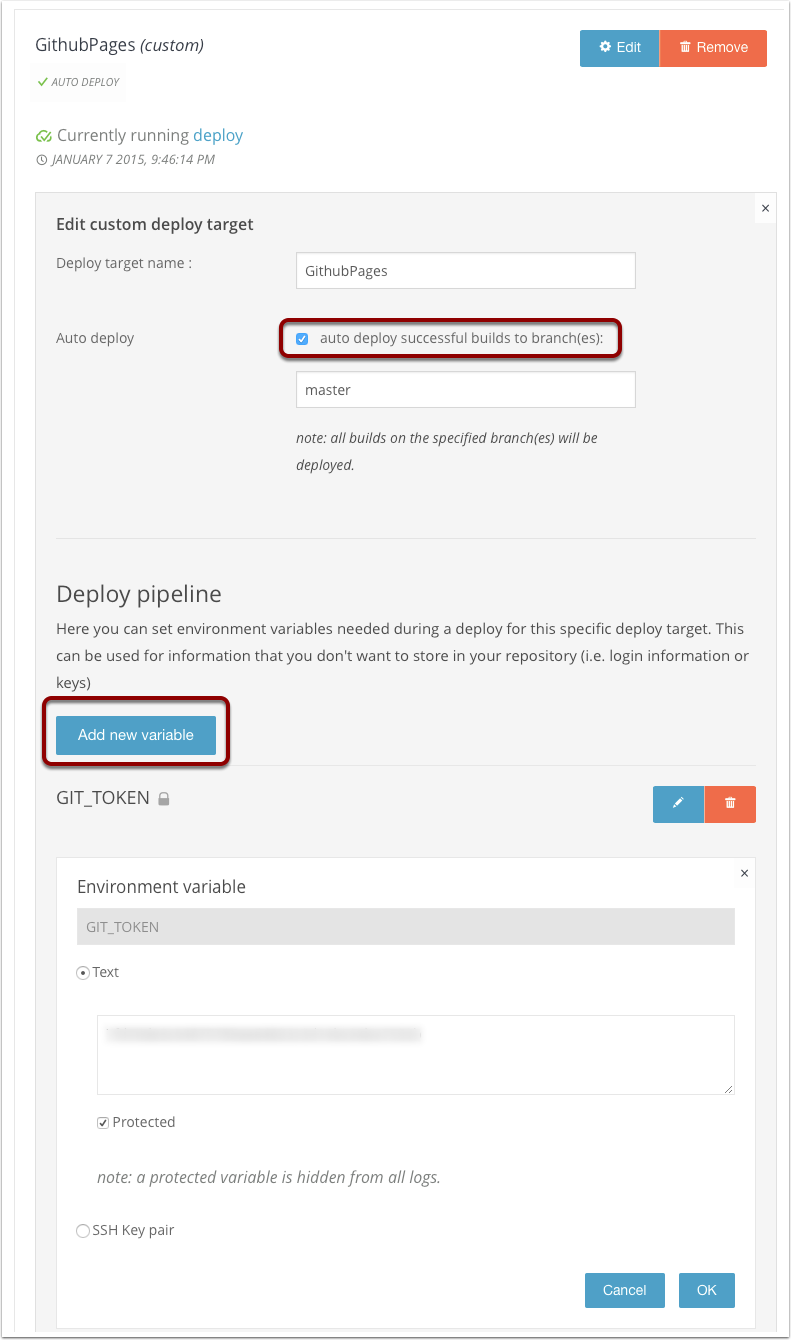
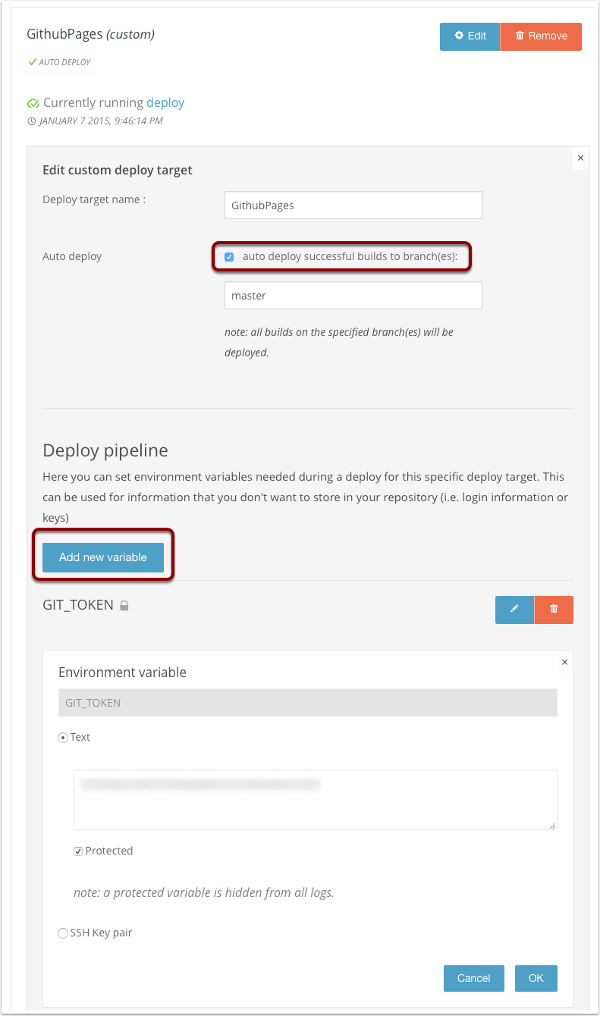
The guide is updated to fit the current Wercker interface and configurations. Wercker changed its interface and default infrastructure (Docker).

Changed region(s): [[0.75, 0.9459, 0.81, 0.9764], [0.9, 0.0305, 0.93, 0.061], [0.12, 0.0305, 0.15, 0.061]]

diff --git a/docs/content/tutorials/automated-deployments.md b/docs/content/tutorials/automated-deployments.md
@@ -1,5 +1,7 @@
 ---
-author: "Arjen Schwarz"
+authors:
+- Arjen Schwarz
+- Samuel Debruyn
 date: 2015-01-12
 linktitle: Automated deployments
 toc: true
@@ -14,7 +16,7 @@ weight: 10
 
 # Automated deployments with Wercker
 
-In this tutorial we will set up a basic Hugo project and then configure a free tool called Wercker to automatically deploy the generated site any time we add an article. We will deploy it to GitHub pages as that is easiest to set up, but you will see that we can use anything. This tutorial takes you through every step of the process, complete with screenshots, and is fairly long.
+In this tutorial we will set up a basic Hugo project and then configure a free tool called Wercker to automatically deploy the generated site any time we add an article. We will deploy it to GitHub pages as that is easiest to set up, but you will see that we can use anything. This tutorial takes you through every step of the process, complete with screenshots and is fairly long.
 
 The  assumptions made for this tutorial are that you know how to use git for version control, and have a GitHub account. In case you are unfamiliar with these, in their [help section](https://help.github.com/articles/set-up-git/) GitHub has an explanation of how to install and use git and you can easily sign up for a free GitHub account as well.
 
@@ -49,13 +51,19 @@ Let's add a quick **about** page.
 hugo new about.md
 ```
 
-Now we'll edit contents/about.md to ensure it's no longer a draft and add some text to it. Once completed it's a good idea to do a quick check if everything is working by running
+Now we'll edit contents/about.md to ensure it's no longer a draft and add some text to it.
+
+```bash
+hugo undraft content/about.md
+```
+
+Once completed it's a good idea to do a quick check if everything is working by running
 
 ```bash
 hugo server --theme=herring-cove
 ```
 
-If everything is fine, you should be able to see something similar to the image below when you go to localhost:1313 in your browser.
+If everything is fine, you should be able to see something similar to the image below when you go to localhost:1414 in your browser.
 
 ![][1]
 
@@ -84,18 +92,17 @@ echo "User-agent: *\nDisallow:" > static/robots.txt
 After this we can add everything to the repository.
 
 ```bash
-git add .
-git commit -m "Initial commit"
+git commit -a -m "Initial commit"
 ```
 
 ## Adding the project to GitHub
 
-First we'll create a new repository. You can do this by clicking on the **+** sign at the top right, or by going to [https://github.com/new](https://github.com/new) 
+First we'll create a new repository. You can do this by clicking on the **+** sign at the top right, or by going to https://github.com/new
 
 We then choose a name for the project (**hugo-wercker-example**). When clicking on create repository GitHub displays the commands for adding an existing project to the site. The commands shown below are the ones used for this site, if you're following along you will need to use the ones shown by GitHub. Once we've run those commands the project is in GitHub and we can move on to setting up the Wercker configuration.
 
 ```bash
-git remote add origin git@github.com:ArjenSchwarz/hugo-wercker-example.git
+git remote add origin git@github.com:YourUsername/hugo-wercker-example.git
 git push -u origin master
 ```
 
@@ -105,11 +112,11 @@ git push -u origin master
 
 ## Welcome to wercker
 
-Let's start by setting up an account for Wercker. To do so we'll go to http://wercker.com and click on the **register** link at the top-right corner.
+Let's start by setting up an account for Wercker. To do so we'll go to http://wercker.com and click on the **Sign up** button.
 
 ![][3]
 
-[3]: /img/tutorials/welcome-to-wercker.png
+[3]: /img/tutorials/wercker-sign-up.png
 
 ## Register
 
@@ -117,23 +124,23 @@ To make life easier for ourselves, we will then register using GitHub. If you do
 
 ![][4]
 
-[4]: /img/tutorials/register.png
+[4]: /img/tutorials/wercker-sign-up-page.png
 
 ## Connect GitHub/Bitbucket
 
-After you are registered, you will need to link your GitHub and/or Bitbucket account to Wercker. You do this by going to your profile settings, and then "Git connections" If you registered using GitHub it will most likely look like the below. To connect a missing service, simply click on the connect button which will then send you to either GitHub or Bitbucket where you might need to log in and approve their access to your account.
+After you are registered, you will need to link your GitHub and/or Bitbucket account to Wercker. You do this by going to your profile settings, and then "Git connections" If you registered using GitHub it will most likely look like the image below. To connect a missing service, simply click on the connect button which will then send you to either GitHub or Bitbucket where you might need to log in and approve their access to your account.
 
 ![][5]
 
-[5]: /img/tutorials/connect-github-bitbucket.png
+[5]: /img/tutorials/wercker-git-connections.png
 
 ## Add your project
 
-Now that we've got all the preliminaries out of the way, it's time to set up our application. For this we click on the **+ Add** button next to Apps, and then we'll choose to use GitHub as our provider.
+Now that we've got all the preliminaries out of the way, it's time to set up our application. For this we click on the **+ Create** button next to Applications, and then we'll choose to use GitHub as our provider.
 
 ![][6]
 
-[6]: /img/tutorials/add-your-project.png
+[6]: /img/tutorials/wercker-add-app.png
 
 ## Select a repository
 
@@ -141,58 +148,66 @@ Clicking this will make Wercker show you all the repositories you have on GitHub
 
 ![][7]
 
-[7]: /img/tutorials/select-a-repository.png
+[7]: /img/tutorials/wercker-select-repository.png
+
+## Select the repository owner
+
+In the next step, Wercker asks you to select the repository owner. Just select your own GitHub account and continue.
+
+![][8]
+
+[8]: /img/tutorials/wercker-select-owner.png
 
 ## Configure access
 
 This step can be slightly tricky. As Wercker doesn't access to check out your private projects by default it will ask you what you want to do. When your project is public, as needs to be the case if you wish to use GitHub Pages, the top choice is recommended. When you use this it will simply check out the code in the same way anybody visiting the project on GitHub can do.
 
-![][8]
+![][9]
 
-[8]: /img/tutorials/configure-access.png
+[9]: /img/tutorials/wercker-access.png
 
 ## Wercker.yml
 
-Wercker will now attempt to create an initial wercker.yml file for you. Or rather, it will create the code you can copy into it yourself. Because there is nothing special about our project according to Wercker, we will simply get the `wercker/default` box. So what we do now is create a wercker.yml file in the root of our project that contains the provided configuration, and after we finish setting up the app we will expand this file to make it actually do something.
-
-![][9]
-
-[9]: /img/tutorials/werckeryml.png
-
-## Public or not
-
-This is a personal choice, you can make an app public so that everyone can see more details about it. This doesn't give you any real benefits either way in general, although as part of the tutorial I have of course made this app public so you can see it in action [yourself](https://app.wercker.com/#applications/54b1e45eda3a4af76406ece6).
+Wercker will now attempt to create an initial *wercker.yml* file for you. Or rather, it will create the code you can copy into it yourself. Because there is nothing special about our project according to Wercker, we will simply get the `debian` box. So what we do now is create a *wercker.yml* file in the root of our project that contains the provided configuration, and after we finish setting up the app we will expand this file to make it actually do something.
 
 ![][10]
 
-[10]: /img/tutorials/public-or-not.png
+[10]: /img/tutorials/werckeryml.png
+
+## Public or not
+
+This is a personal choice, you can make an app public so that everyone can see more details about it. This doesn't give you any real benefits either way in general, although as part of the tutorial I have of course made this app public so you can see it in action [yourself](https://app.wercker.com/#applications/5586dcbdaf7de9c51b02b0d5).
+
+![][11]
+
+[11]: /img/tutorials/public-or-not.png
 
 ## And we've got an app
 
 The application is added now, and Wercker will be offering you the chance to trigger a build. As we haven't pushed up the **wercker.yml** file however, we will politely decline this option.
 
-![][11]
+![][12]
 
-[11]: /img/tutorials/and-we-ve-got-an-app.png
+[12]: /img/tutorials/and-we-ve-got-an-app.png
 
 ## Adding steps
 
-And now we're going to add the steps themselves. First, we go to the "Steps" action in the sidebar and then search for hugo. The first result is the **Hugo-Build** task, which we select. 
+And now we're going to add the steps themselves. First, we go to the "Registry" action in the top menu and then search for "hugo build". The first result is the **Hugo-Build** task, which we select. 
 
-![][12]
+![][13]
 
-[12]: /img/tutorials/adding-steps.png
+[13]: /img/tutorials/wercker-search.png
 
 ## Using Hugo-Build
 
 Inside the details of this step you will see how to use it. At the top is a summary for the very basic usage, but when scrolling down you go through the README of the step which will usually contain more details about how to use it including a full example of using the step. So we return to our project, and while making it fit our project better we add these details to our wercker.yml file so it looks like this. Wercker also has a [page](http://devcenter.wercker.com/articles/werckeryml/validate.html) for validating wercker.yml files, and it's usually a good idea to do so before committing changes.
 
 ```yaml
-box: wercker/default
+box: debian
 build:
   steps:
     - arjen/hugo-build:
-        version: 0.12
+        version: 0.14
         theme: herring-cove
         flags: --buildDrafts=true
 ```
@@ -200,27 +215,26 @@ build:
 This concludes the first step, so we'll test that it all works as it should by pushing up our wercker.yml file and seeing the magic at work.
 
 ```bash
-git add wercker.yml
-git commit -m "Add wercker.yml"
+git commit -a -m "Add wercker.yml"
 git push origin master
 ```
 
 Once completed a nice tick should have appeared in front of your first build, and if you want you can look at the details by clicking on it. However, we're not done yet as we still need to deploy it to GitHub Pages.
 
-![][13]
+![][14]
 
-[13]: /img/tutorials/using-hugo-build.png
+[14]: /img/tutorials/using-hugo-build.png
 
 ## Adding a GitHub Pages step
 
 In order to deploy to GitHub Pages we need to add a deploy step. Once again searching through the Steps repository we find that the most popular step is the **lukevevier/gh-pages** step so we add the configuration for that to our wercker.yml file, which then becomes this:
 
 ```yaml
-box: wercker/default
+box: debian
 build:
   steps:
     - arjen/hugo-build:
-        version: 0.12
+        version: 0.14
         theme: herring-cove
         flags: --buildDrafts=true
 deploy:
@@ -237,17 +251,17 @@ Secondly we've configured the basedir to **public**, this is the directory that 
 
 And lastly, you can see here that this has a **$GIT_TOKEN** variable. This is used for pushing our changes up to GitHub and we will need to configure this before we can do that. We do this by going to our app's settings and clicking on **Deploy targets**. Now, we **Add deploy target** and select **Custom deploy**.
 
-![][14]
+![][15]
 
-[14]: /img/tutorials/adding-a-github-pages-step.png
+[15]: /img/tutorials/adding-a-github-pages-step.png
 
 ## Configure the deploy step
 
 Simply fill in the name, and make sure you enable **auto deploy** from the **master** branch. Next you add a variable for the **GIT_TOKEN**, for this you'll need to create an access token in GitHub. How to do that is described on a [GitHub help page](https://help.github.com/articles/creating-an-access-token-for-command-line-use/). With the deploy step configured in Wercker, we can push the updated wercker.yml file to GitHub and it will create the GitHub pages site for us. The example site we used here is accessible under hugo-wercker.ig.nore.me
 
-![][15]
+![][16]
 
-[15]: /img/tutorials/configure-the-deploy-step.png
+[16]: /img/tutorials/configure-the-deploy-step.png
 
 ## Conclusion
 
